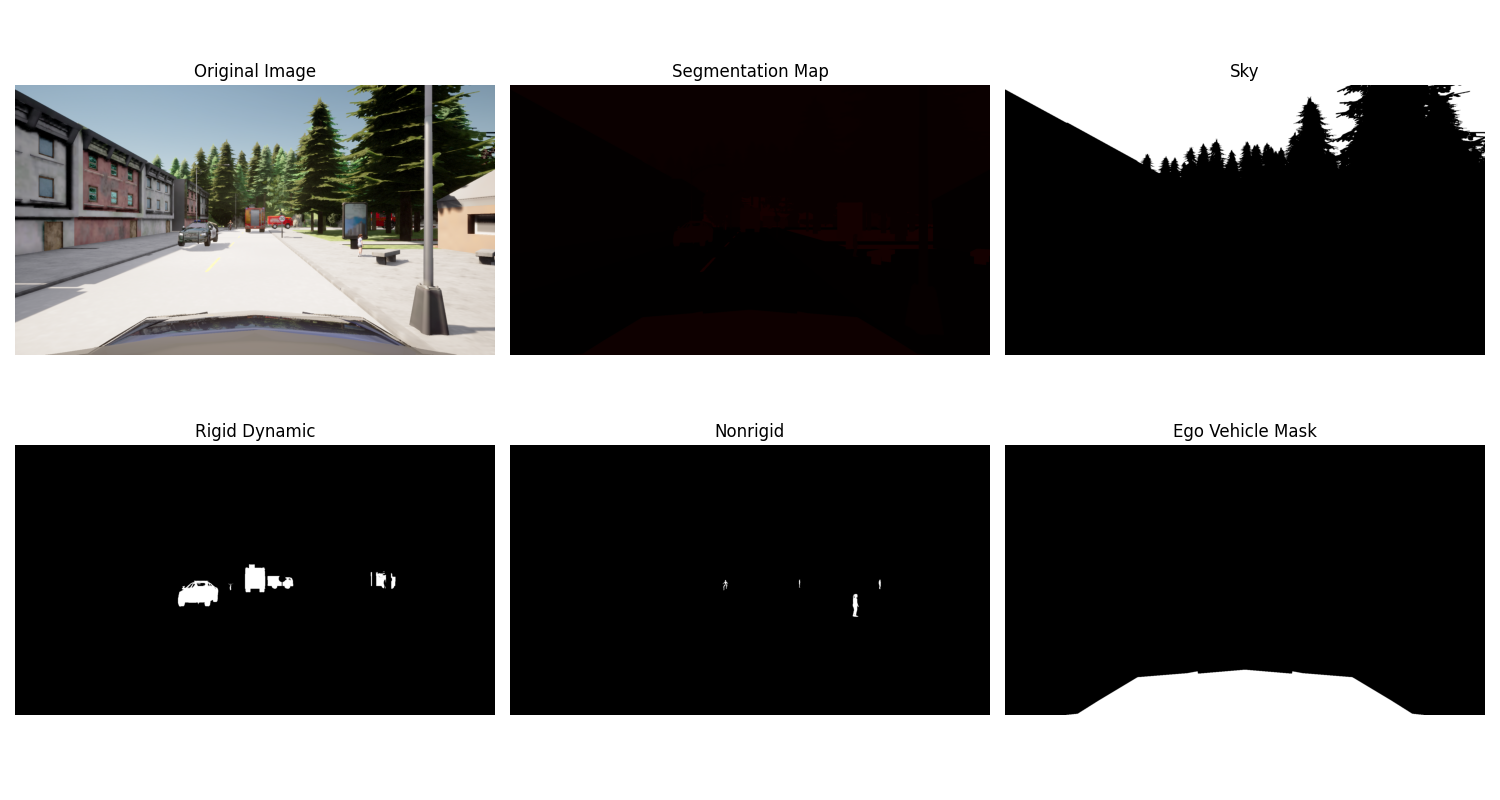
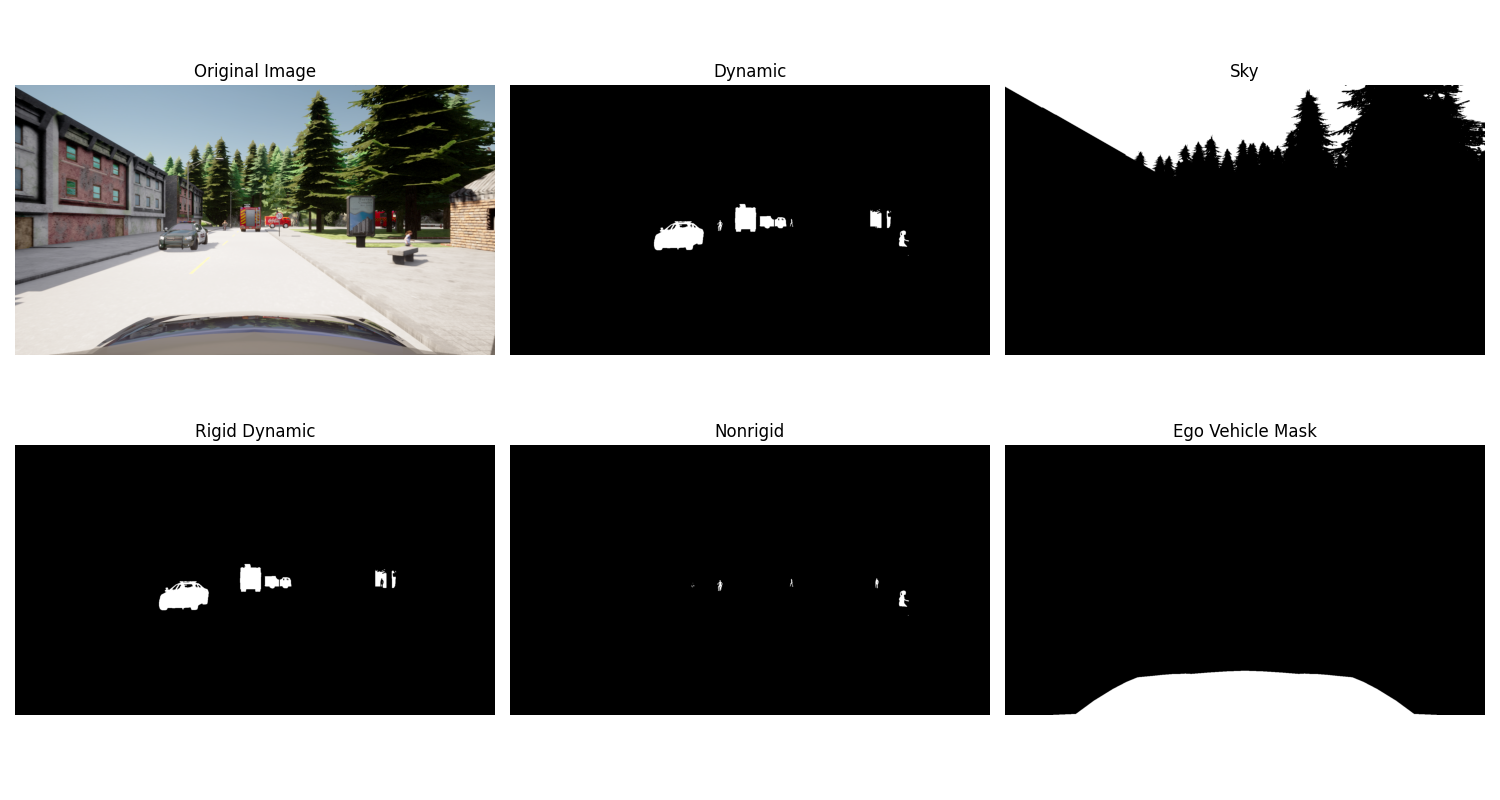
docs: update README with additional mask directory details and segmentation mask visualization

diff --git a/README.md b/README.md
@@ -81,7 +81,12 @@ dataset/
 ├── image_label/       # Image annotation files
 ├── lidar_label/       # LiDAR annotation files
 ├── mask/              # Segmentation masks
+│   ├── bbox/          # Bounding box masks
+│   ├── ego/           # Ego vehicle masks
 │   ├── nonrigid/      # Non-rigid object masks
+│   ├── object_intersection/ # Object intersection masks
+│   │   ├── nonrigid/  # Non-rigid object intersection masks
+│   │   └── rigid/     # Rigid object intersection masks
 │   ├── rigid/         # Rigid object masks
 │   └── sky/           # Sky region masks
 ├── masked_images/     # Masked images
@@ -90,6 +95,7 @@ dataset/
 │   └── sky/           # Images with sky region masks
 └── velodyne/          # LiDAR point cloud data
 ```
+
 
 ## 📝 Data Format Specification
 ```python
@@ -232,6 +238,11 @@ dataset/
 ### LiDAR Point Cloud Visualization
 ![LiDAR Point Cloud Visualization](samples/pointcloud_bbox.gif)  
 *LiDAR Point Cloud Visualization*
+
+### Segmentation Masks
+![Segmentation Masks](samples/masks.png)  
+*Visualization of different types of segmentation masks including rigid, non-rigid, and sky masks*
+
 
 ## 📝 Notes
 1. **The CARLA server must remain running** during data generation.
